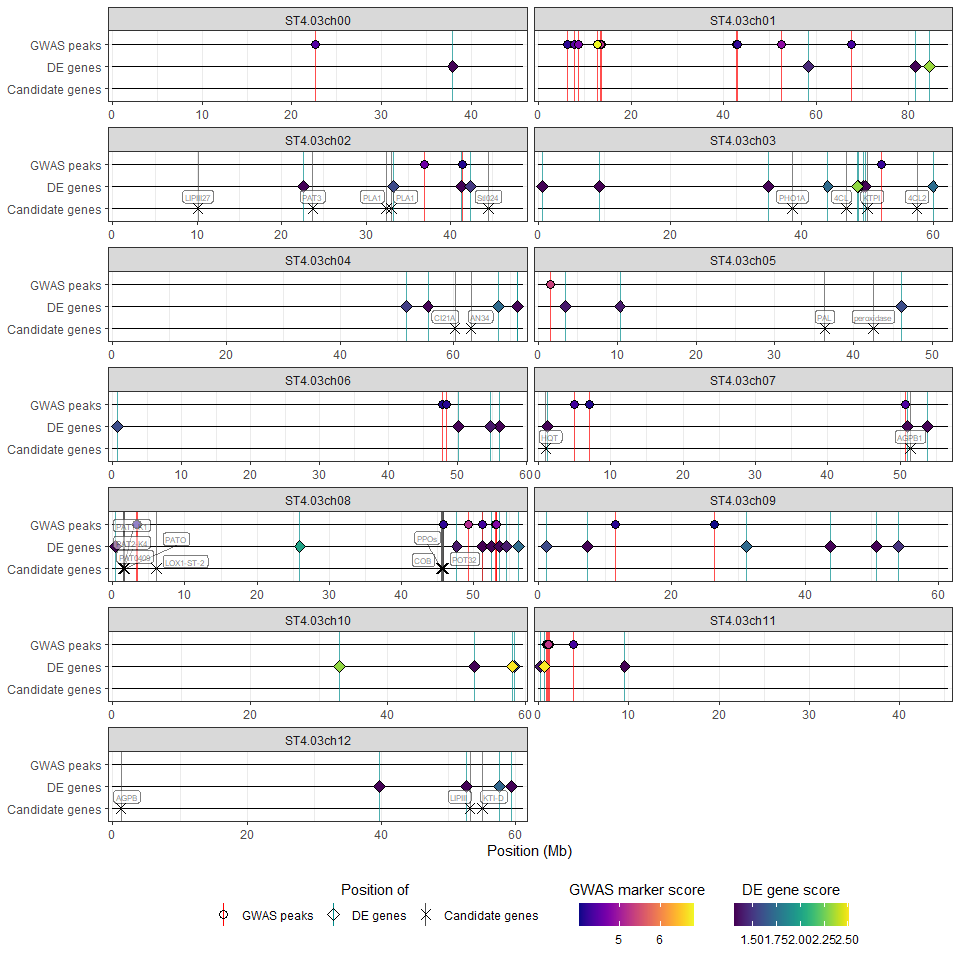
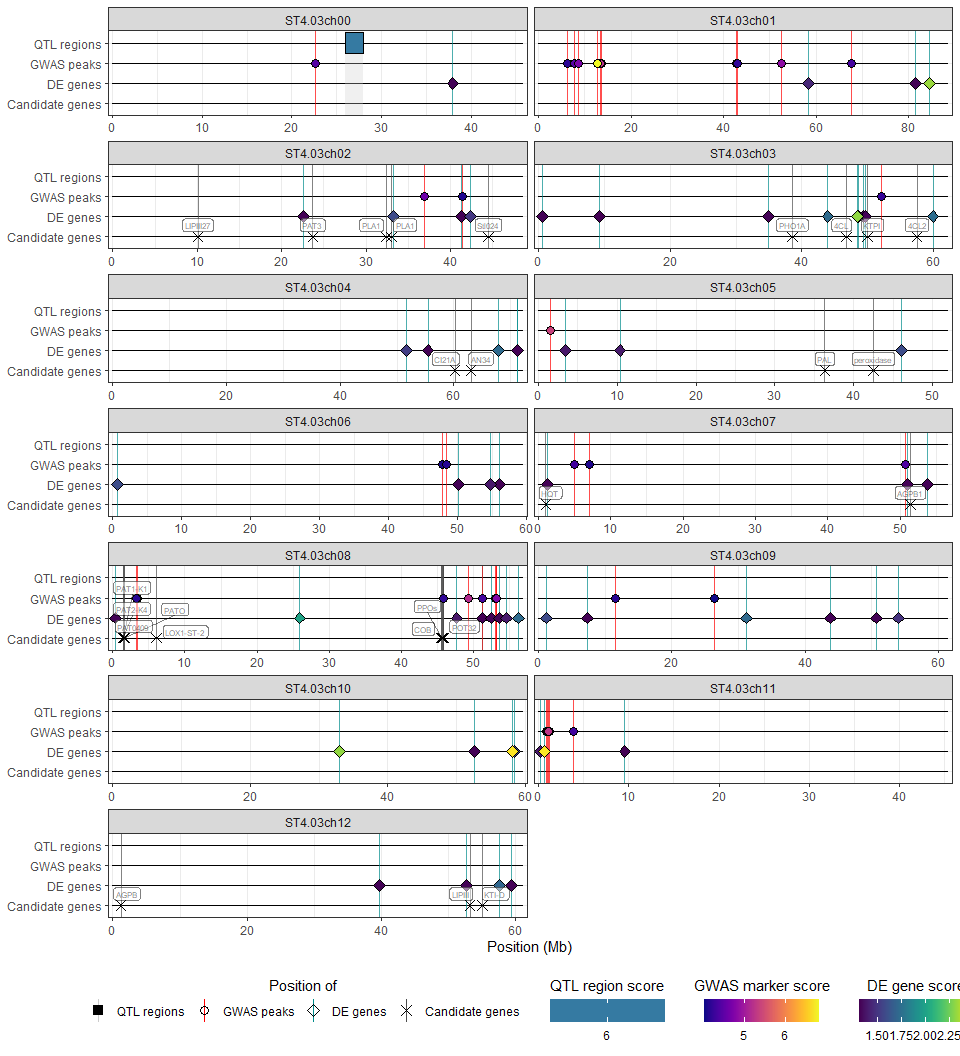
Bumping version + updating README

Changed region(s): [[0.0, 0.0, 1.0, 1.0], [0.0938, 0.9375, 0.1875, 0.9688]]

diff --git a/README.md b/README.md
@@ -4,12 +4,13 @@
 # hidecan <img src="man/figures/logo.png" align="right" alt="" width="120" />
 
 <!-- badges: start -->
+
 <!-- badges: end -->
 
 `hidecan` is an R package for generating HIDECAN plots, which are
-visualisations summarising the results of one or more Genome-wide
-association study (GWAS) and transcriptomics differential expression
-(DE) analysis, alongside candidate genes of interest.
+visualisations summarising the results of one or more QTL mapping,
+genome-wide association study (GWAS) and transcriptomics differential
+expression (DE) analysis, alongside candidate genes of interest.
 
 ## Installation
 
@@ -31,19 +32,20 @@ devtools::install_github("PlantandFoodResearch/hidecan")
 
 The hidecan package works as follows:
 
-- it takes as an input one of more data-frames containing GWAS results,
-  differential expression results and list of candidate genes of
-  interest;
+- it takes as an input one of more data-frames containing QTL mapping
+  results, GWAS results, differential expression results and list of
+  candidate genes of interest;
 
 - it computes the length of each chromosome based on the genomic
-  position of the markers and genes provided in the input data;
+  position of the regions, markers and genes provided in the input data;
 
-- it filters the datasets to retain significant markers or
+- it filters the datasets to retain significant regions/markers or
   differentially expressed genes, according to a threshold on their
   score and/or log2-fold change. The fold-change is set by the user, and
-  can be different for GWAS and differential expression results.
+  can be different for QTL mapping, GWAS and differential expression
+  results.
 
-- it displays the position of the significant markers and genes
+- it displays the position of the significant regions, markers and genes
   alongside candidate genes (HIDECAN plot). The plot can be customised
   by the user via a number of parameters (e.g. legend position or label
   size).
@@ -58,9 +60,11 @@ library(hidecan)
 x <- get_example_data()
 
 hidecan_plot(
+  qtl_list = x[["QTL"]],            ## data-frame of QTL mapping results
   gwas_list = x[["GWAS"]],          ## data-frame of GWAS results
   de_list = x[["DE"]],              ## data-frame of DE results
   can_list = x[["CAN"]],            ## data-frame of candidate genes
+  score_thr_qtl = -log10(0.0001),   ## sign. threshold for QTL mapping
   score_thr_gwas = -log10(0.0001),  ## sign. threshold for GWAS
   score_thr_de = -log10(0.05),      ## sign. threshold for DE
   log2fc_thr = 0,                   ## log2FC threshold for DE
